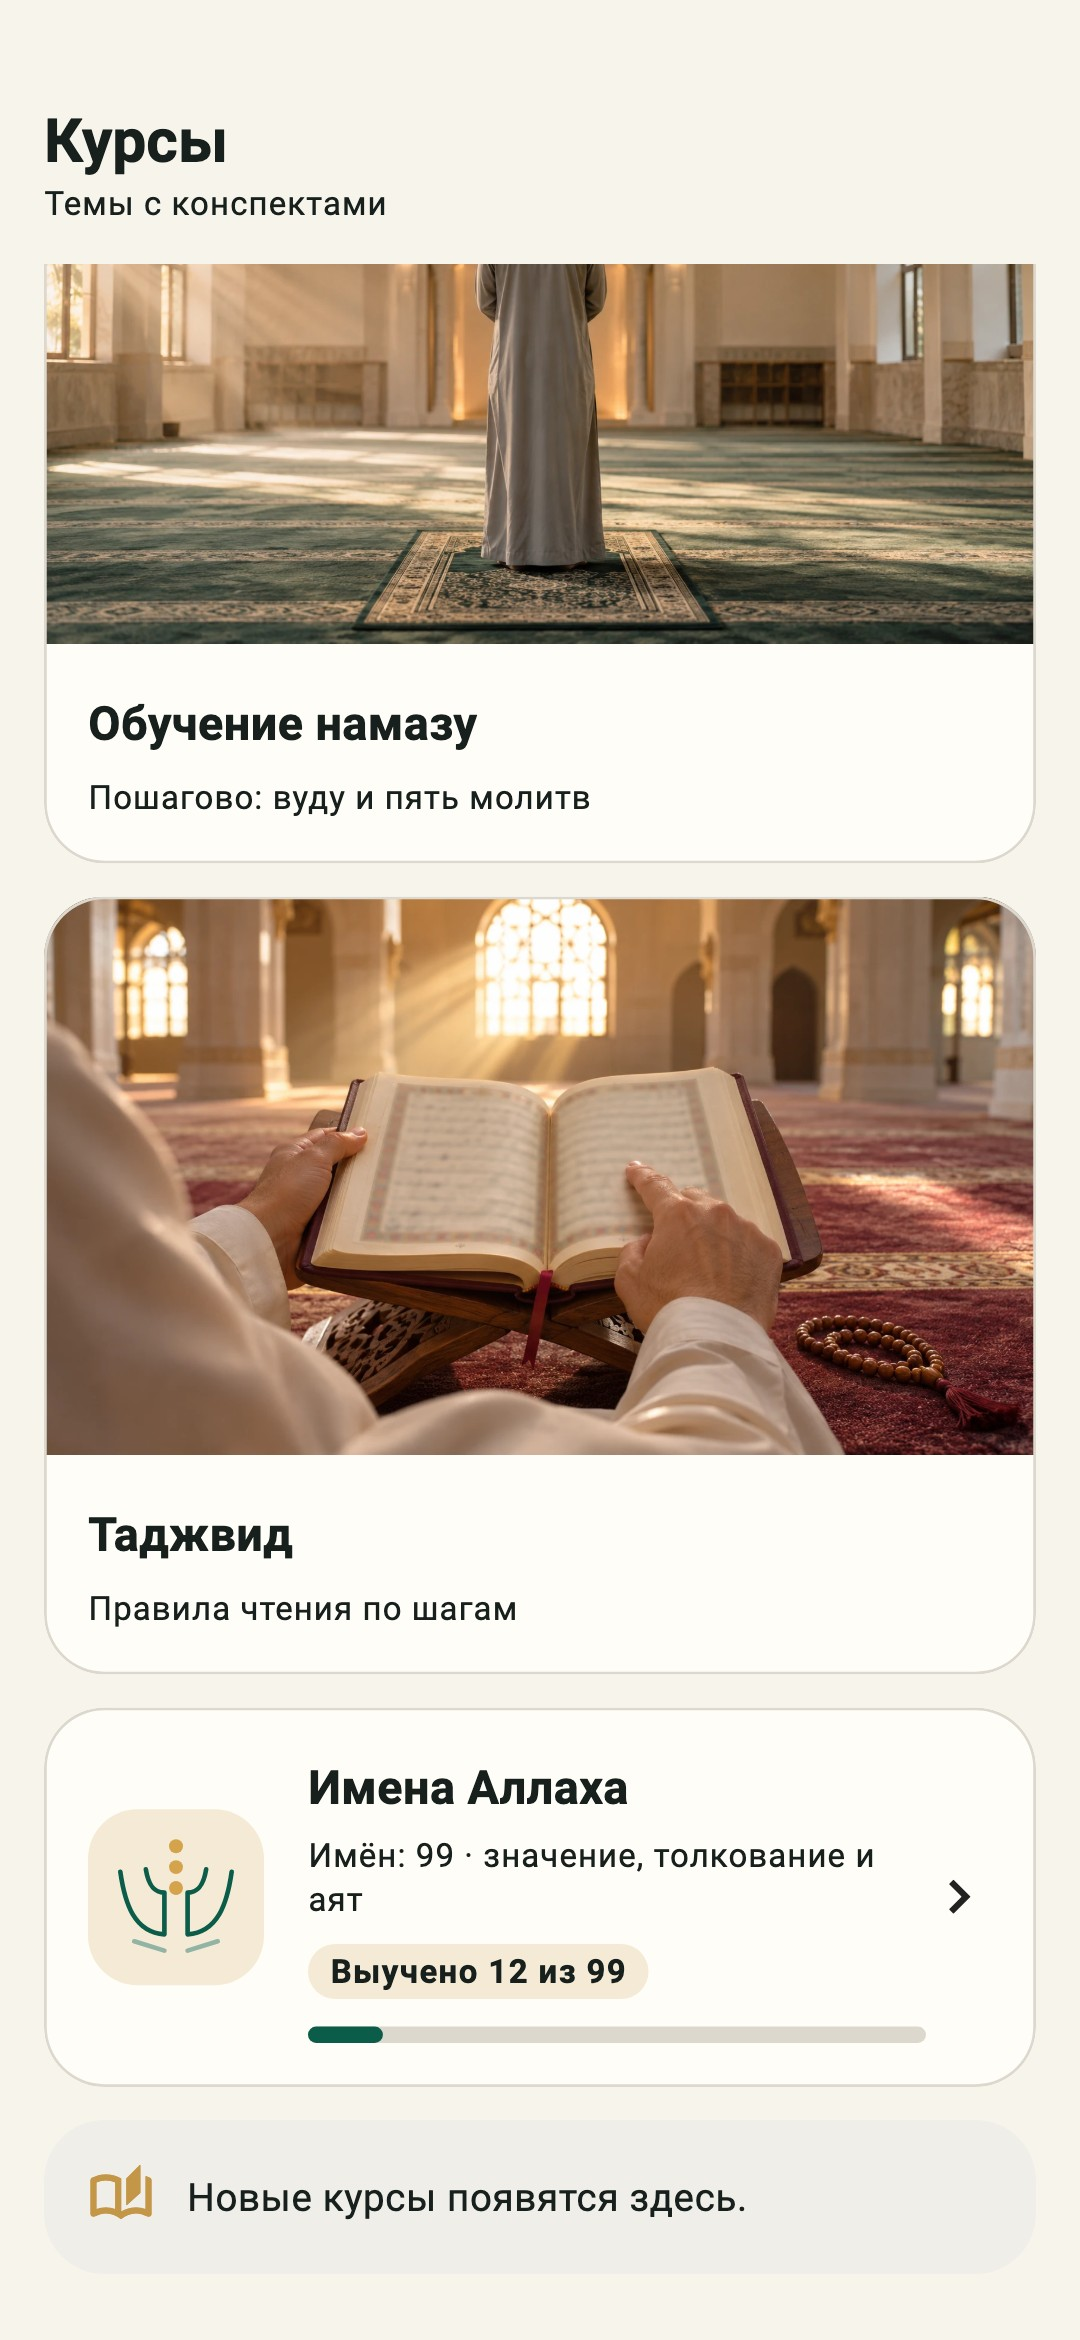
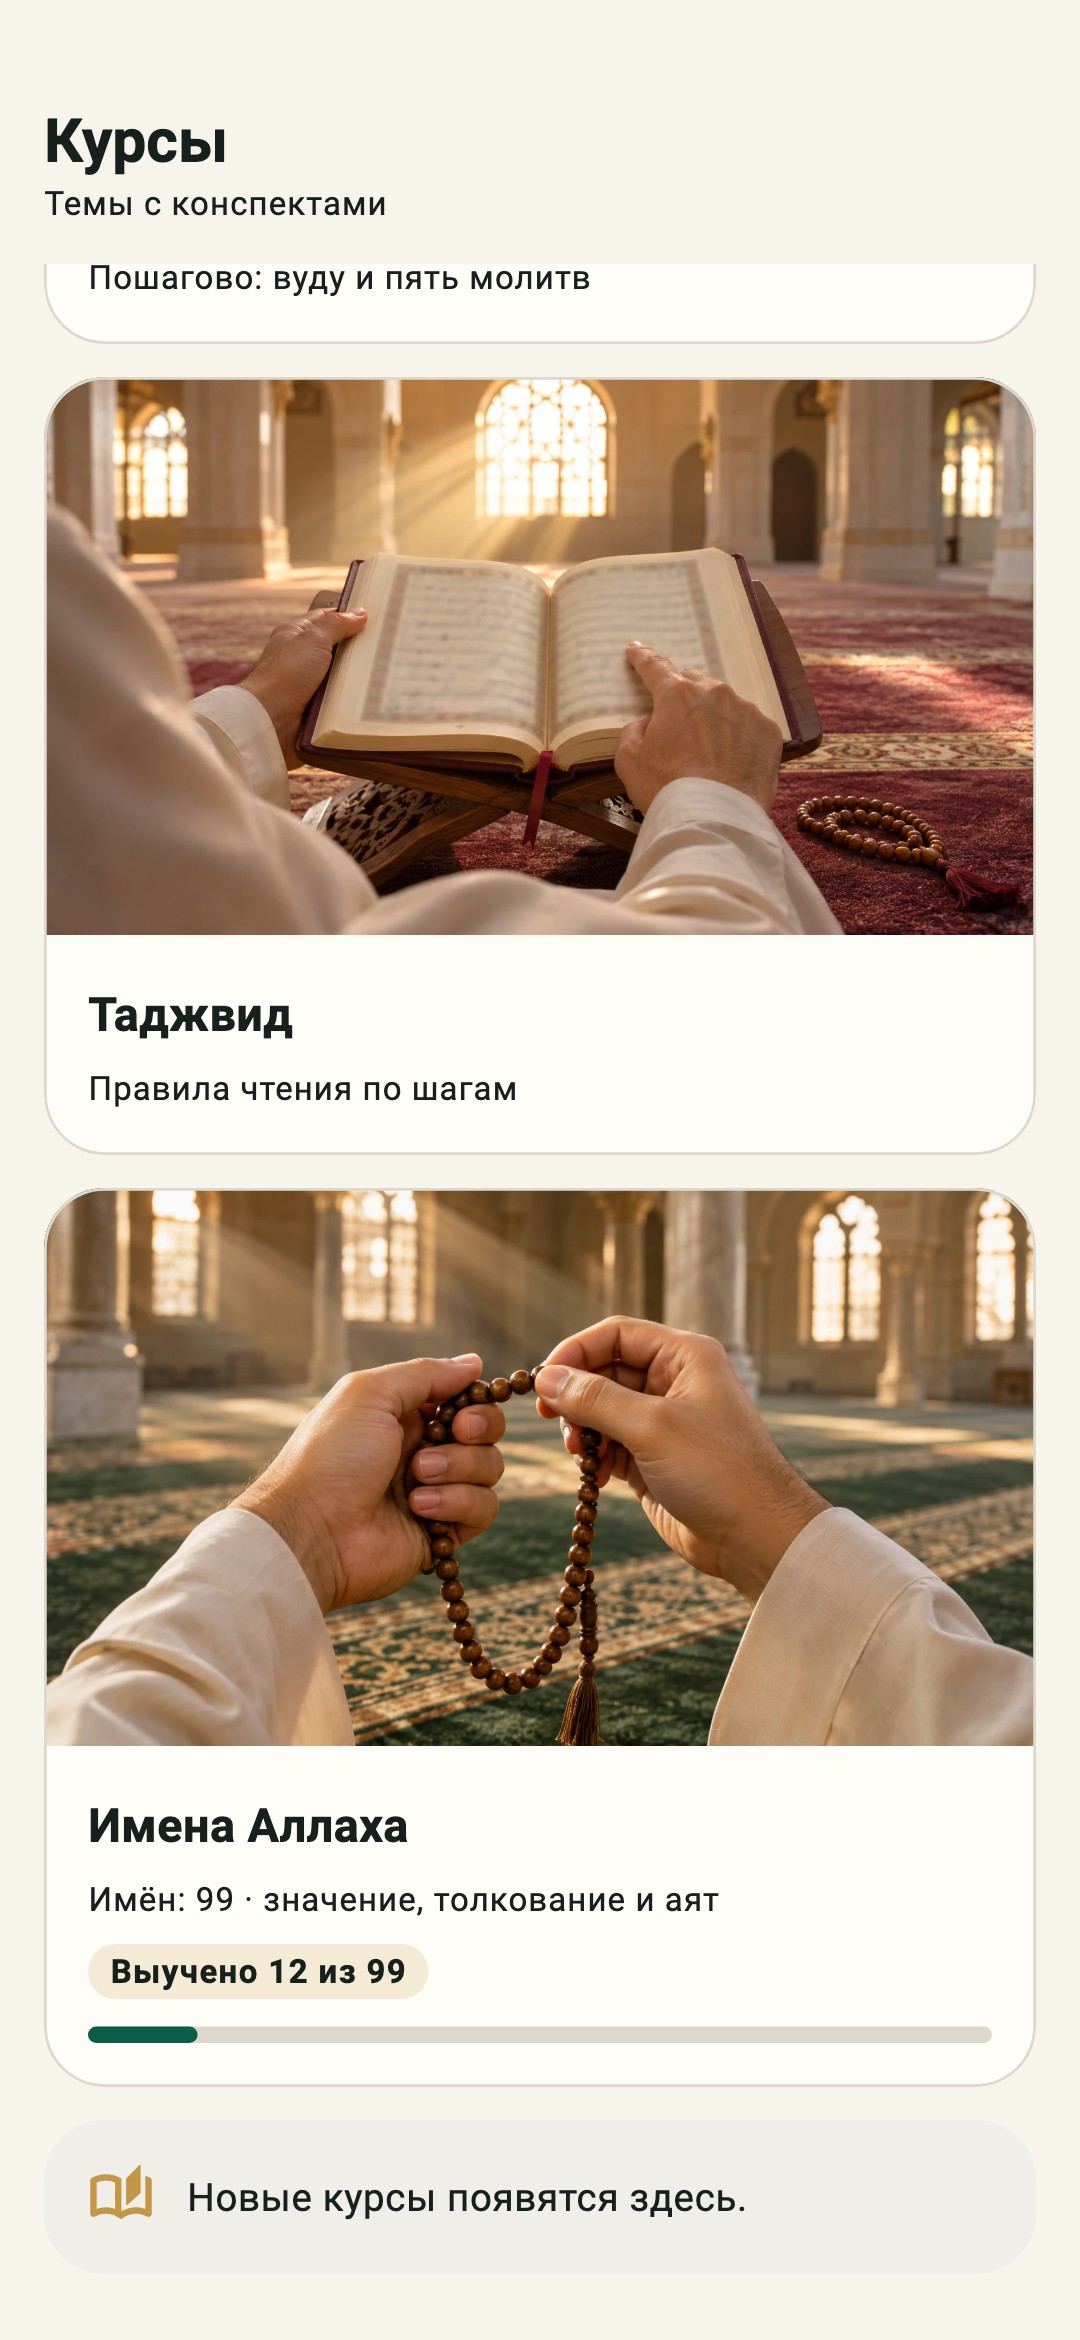
Add the cover of the Names of Allah card and retake the catalog guides
The owner's picture is kept with the other built-in covers in
docs/courses/covers; it is uploaded in the admin after the deploy.
Guide cards 5 and 6 now show the catalog with it.

diff --git a/clients/iqro_mobile/test/features/course_screenshots_test.dart b/clients/iqro_mobile/test/features/course_screenshots_test.dart
@@ -609,12 +609,15 @@ Future<Map<String, Uint8List>> _pictures() async {
   return {
     '9999999999': wudu,
     'fedcba9876': prayerCover,
-    // The covers the site serves for the two built-in courses.
+    // The covers the site serves for the built-in courses.
     'site-salah': File(
       '../../docs/courses/covers/salah.webp',
     ).readAsBytesSync(),
     'site-tajweed': File(
       '../../docs/courses/covers/tajweed.webp',
+    ).readAsBytesSync(),
+    'site-names': File(
+      '../../docs/courses/covers/names.webp',
     ).readAsBytesSync(),
     '1111111111': scheme,
     '3333333333': niyya,
@@ -708,8 +711,8 @@ void main() {
     }, skip: _directory.isEmpty);
   }
 
-  // «Имена Аллаха» as the third card, before its cover is uploaded, with a
-  // few names learned on the device.
+  // «Имена Аллаха» as the third card with its cover (docs/courses/covers)
+  // and a few names learned on the device.
   testWidgets('catalog with the names card', (tester) async {
     Map<String, Object?> cover(String name) => {
       'url': 'https://media.iqro.forum/courses/covers/site-$name.webp',
@@ -728,7 +731,7 @@ void main() {
           'built_in': {
             'salah': {'cover': cover('salah')},
             'tajweed': {'cover': cover('tajweed')},
-            'names': {'cover': null, 'lesson_count': 99},
+            'names': {'cover': cover('names'), 'lesson_count': 99},
           },
         },
       ),

diff --git a/docs/names-of-allah/README.md b/docs/names-of-allah/README.md
@@ -244,7 +244,9 @@
   опубликован**; до подписи владельца и после отзыва версии его нет.
 - **Обложка** — строка «Имена Аллаха» в «Обучение → Обложки: намаз, таджвид, имена»
   (`BuiltInCourseCover`, строку создаёт миграция `courses.0010_builtin_course_names`). Тот же
-  конвейер и те же права, что у намаза и таджвида. Без обложки карточка со значком.
+  конвейер и те же права, что у намаза и таджвида. Без обложки карточка со значком. Исходник
+  обложки — [courses/covers/names.webp](../courses/covers/names.webp) (1672×941, прислан владельцем
+  12.11.2026); в админку его загружают после выкладки.
 - **Клиенты** (сайт и приложение одинаково). Карточка стоит третьей, после «Обучения намазу» и
   «Таджвида», и открывает тот же раздел с колесом (`/names`); второго экрана нет. Нет ключа `names`
   (список не опубликован, старый сервер, каталог не загрузился) — карточки нет; сам раздел при

diff --git a/docs/courses/README.md b/docs/courses/README.md
@@ -276,7 +276,8 @@ banner = {"type": "banner", "image": Image, "caption": string, "alt": string, "d
 тем же конвейером, что у тематического курса (`courses/media.py`, `upload_course_cover`): JPEG, PNG или
 WebP до 20 МБ, обрезка по центру до 16:9, WebP 1280×720 и 640×360, неизменяемые ключи
 `courses/covers/{sha[:20]}.webp` и `…-640.webp`. Исходники обложек «Обучение намазу» и «Таджвид»,
-загруженных 11.11.2026, лежат в [covers/](covers/). Старые файлы из R2 не удаляются (ADR 0001). Обложка видна
+загруженных 11.11.2026, лежат в [covers/](covers/); там же `names.webp` — обложка «Имён Аллаха» от 12.11.2026
+(в админку её загружают после выкладки). Старые файлы из R2 не удаляются (ADR 0001). Обложка видна
 на сайте и в приложении сразу после сохранения, без выпуска. Менять её может «Публикатор» (право
 `change_builtincoursecover`), смотреть — ещё и «Редактор курсов».
 

diff --git a/docs/guides/names-of-allah/README.md b/docs/guides/names-of-allah/README.md
@@ -44,4 +44,4 @@
 
 ---
 
-Основа снимков: приложение — телефон Redmi с тестовой сборкой и эмулятор Android, сайт — локальная копия; 12 ноября 2026, до выпуска раздела. После выпуска снимки нужно переснять на рабочем сайте. Карточки 5 и 6 (каталог курсов) — тестовый снимок экрана приложения и локальная копия сайта, 12 ноября 2026; обложки у карточки имён ещё нет.
+Основа снимков: приложение — телефон Redmi с тестовой сборкой и эмулятор Android, сайт — локальная копия; 12 ноября 2026, до выпуска раздела. После выпуска снимки нужно переснять на рабочем сайте. Карточки 5 и 6 (каталог курсов) — тестовый снимок экрана приложения и локальная копия сайта с обложками из docs/courses/covers, 12 ноября 2026.

diff --git a/docs/guides/admin-names/README.md b/docs/guides/admin-names/README.md
@@ -50,4 +50,4 @@
 
 1. «Загрузить обложку» — JPEG, PNG или WebP; админка сама обрежет картинку до 16:9.
 2. «Сохранить» — обложка видна на сайте и в приложении сразу, новая версия списка не нужна.
-3. Пока обложки нет, у карточки значок. Пока список не опубликован, карточки в «Курсах» нет вовсе.
+3. Картинка для загрузки лежит в репозитории: `docs/courses/covers/names.webp`. Пока обложки нет, у карточки значок. Пока список не опубликован, карточки в «Курсах» нет вовсе.
